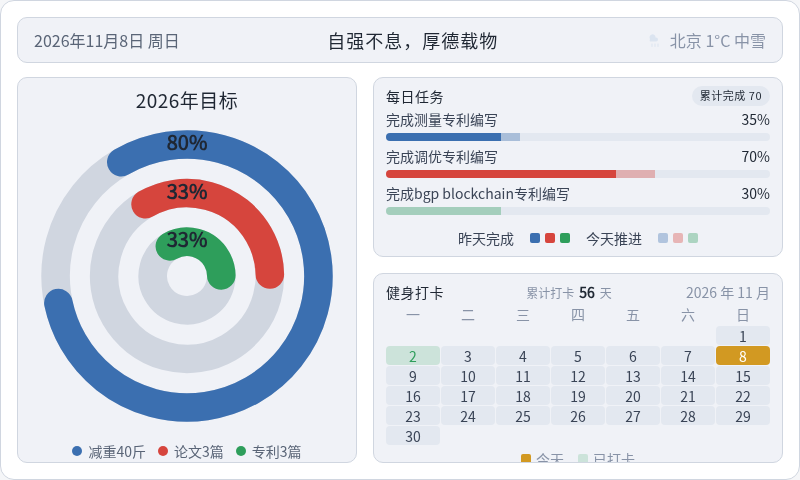
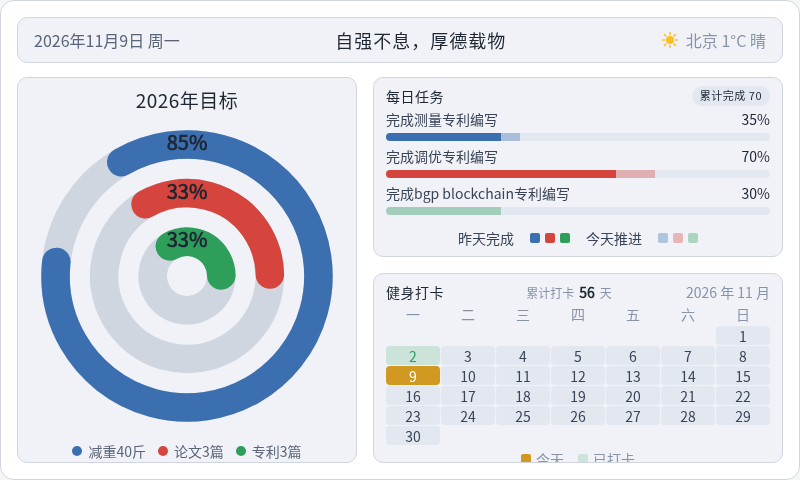
chore: 每日看板刷新 2026-11-09

diff --git a/output/dashboard/dashboard.html b/output/dashboard/dashboard.html
@@ -185,11 +185,11 @@
 <body>
   <div class="dash">
     <div class="topbar">
-      <div class="tb-date" id="tbDate">2026年11月8日 周日</div>
+      <div class="tb-date" id="tbDate">2026年11月9日 周一</div>
       <div class="tb-slogan">自强不息，厚德载物</div>
       <div class="tb-weather">
-        <svg width="16" height="16" viewBox="0 0 16 16" aria-hidden="true"><path d="M4 7 a3 3 0 1 1 5.5 -1.5 h0.5 a2 2 0 1 1 0 4 H4 a2.5 2.5 0 0 1 0 -2.5z" fill="#dbe4f0"/><g stroke="#dbe4f0" stroke-width="1" stroke-linecap="round"><line x1="6" y1="12" x2="6" y2="14.5"/><line x1="9" y1="12" x2="9" y2="14.5"/><line x1="12" y1="12" x2="12" y2="14.5"/></g></svg>
-        <span>北京 1°C 中雪</span>
+        <svg width="16" height="16" viewBox="0 0 16 16" aria-hidden="true"><circle cx="8" cy="8" r="4" fill="#fbbf24"/><g stroke="#fbbf24" stroke-width="1.5" stroke-linecap="round"><line x1="8" y1="0.5" x2="8" y2="2.5"/><line x1="8" y1="13.5" x2="8" y2="15.5"/><line x1="0.5" y1="8" x2="2.5" y2="8"/><line x1="13.5" y1="8" x2="15.5" y2="8"/><line x1="2.5" y1="2.5" x2="3.9" y2="3.9"/><line x1="12.1" y1="12.1" x2="13.5" y2="13.5"/><line x1="13.5" y1="2.5" x2="12.1" y2="3.9"/><line x1="3.9" y1="12.1" x2="2.5" y2="13.5"/></g></svg>
+        <span>北京 1°C 晴</span>
       </div>
     </div>
     <div class="content">
@@ -200,9 +200,9 @@
           <svg viewBox="0 0 210 210" width="300" height="300" role="img" aria-label="三环进度仪表盘">
             <title>2026年目标三环进度</title>
             <g transform="rotate(-120 105 105)">
-              <circle cx="105" cy="105" r="92" fill="none" stroke="#d0d6e0" stroke-width="20"/><circle cx="105" cy="105" r="92" fill="none" stroke="#3b6fb0" stroke-width="20" stroke-linecap="round" stroke-dasharray="462.44 578.05"/><circle cx="105" cy="105" r="58" fill="none" stroke="#d0d6e0" stroke-width="20"/><circle cx="105" cy="105" r="58" fill="none" stroke="#d6453d" stroke-width="20" stroke-linecap="round" stroke-dasharray="120.26 364.42"/><circle cx="105" cy="105" r="24" fill="none" stroke="#d0d6e0" stroke-width="20"/><circle cx="105" cy="105" r="24" fill="none" stroke="#2e9e5b" stroke-width="20" stroke-linecap="round" stroke-dasharray="49.76 150.80"/>
+              <circle cx="105" cy="105" r="92" fill="none" stroke="#d0d6e0" stroke-width="20"/><circle cx="105" cy="105" r="92" fill="none" stroke="#3b6fb0" stroke-width="20" stroke-linecap="round" stroke-dasharray="491.35 578.05"/><circle cx="105" cy="105" r="58" fill="none" stroke="#d0d6e0" stroke-width="20"/><circle cx="105" cy="105" r="58" fill="none" stroke="#d6453d" stroke-width="20" stroke-linecap="round" stroke-dasharray="120.26 364.42"/><circle cx="105" cy="105" r="24" fill="none" stroke="#d0d6e0" stroke-width="20"/><circle cx="105" cy="105" r="24" fill="none" stroke="#2e9e5b" stroke-width="20" stroke-linecap="round" stroke-dasharray="49.76 150.80"/>
             </g>
-            <text x="105" y="13" text-anchor="middle" dominant-baseline="middle" fill="#1f2733" font-size="14" font-weight="700">80%</text><text x="105" y="47" text-anchor="middle" dominant-baseline="middle" fill="#1f2733" font-size="14" font-weight="700">33%</text><text x="105" y="81" text-anchor="middle" dominant-baseline="middle" fill="#1f2733" font-size="14" font-weight="700">33%</text>
+            <text x="105" y="13" text-anchor="middle" dominant-baseline="middle" fill="#1f2733" font-size="14" font-weight="700">85%</text><text x="105" y="47" text-anchor="middle" dominant-baseline="middle" fill="#1f2733" font-size="14" font-weight="700">33%</text><text x="105" y="81" text-anchor="middle" dominant-baseline="middle" fill="#1f2733" font-size="14" font-weight="700">33%</text>
           </svg>
         </div>
         <div class="legend"><div class="legend-row"><span class="dot" style="background:#3b6fb0"></span><span class="lg-name">减重40斤</span></div><div class="legend-row"><span class="dot" style="background:#d6453d"></span><span class="lg-name">论文3篇</span></div><div class="legend-row"><span class="dot" style="background:#2e9e5b"></span><span class="lg-name">专利3篇</span></div></div>
@@ -248,7 +248,7 @@
           <span class="cal-date">2026 年 11 月</span>
         </div>
         <div class="cal-grid wk"><span>一</span><span>二</span><span>三</span><span>四</span><span>五</span><span>六</span><span>日</span></div>
-        <div class="cal-grid"><span class="cell empty"></span><span class="cell empty"></span><span class="cell empty"></span><span class="cell empty"></span><span class="cell empty"></span><span class="cell empty"></span><span class="cell" style="background:#e3e8f0;color:#3a4456">1</span><span class="cell done" style="background:rgba(46,158,91,0.18);color:#2e9e5b">2</span><span class="cell" style="background:#e3e8f0;color:#3a4456">3</span><span class="cell" style="background:#e3e8f0;color:#3a4456">4</span><span class="cell" style="background:#e3e8f0;color:#3a4456">5</span><span class="cell" style="background:#e3e8f0;color:#3a4456">6</span><span class="cell" style="background:#e3e8f0;color:#3a4456">7</span><span class="cell today" style="background:#d29922;color:#ffffff">8</span><span class="cell" style="background:#e3e8f0;color:#3a4456">9</span><span class="cell" style="background:#e3e8f0;color:#3a4456">10</span><span class="cell" style="background:#e3e8f0;color:#3a4456">11</span><span class="cell" style="background:#e3e8f0;color:#3a4456">12</span><span class="cell" style="background:#e3e8f0;color:#3a4456">13</span><span class="cell" style="background:#e3e8f0;color:#3a4456">14</span><span class="cell" style="background:#e3e8f0;color:#3a4456">15</span><span class="cell" style="background:#e3e8f0;color:#3a4456">16</span><span class="cell" style="background:#e3e8f0;color:#3a4456">17</span><span class="cell" style="background:#e3e8f0;color:#3a4456">18</span><span class="cell" style="background:#e3e8f0;color:#3a4456">19</span><span class="cell" style="background:#e3e8f0;color:#3a4456">20</span><span class="cell" style="background:#e3e8f0;color:#3a4456">21</span><span class="cell" style="background:#e3e8f0;color:#3a4456">22</span><span class="cell" style="background:#e3e8f0;color:#3a4456">23</span><span class="cell" style="background:#e3e8f0;color:#3a4456">24</span><span class="cell" style="background:#e3e8f0;color:#3a4456">25</span><span class="cell" style="background:#e3e8f0;color:#3a4456">26</span><span class="cell" style="background:#e3e8f0;color:#3a4456">27</span><span class="cell" style="background:#e3e8f0;color:#3a4456">28</span><span class="cell" style="background:#e3e8f0;color:#3a4456">29</span><span class="cell" style="background:#e3e8f0;color:#3a4456">30</span></div>
+        <div class="cal-grid"><span class="cell empty"></span><span class="cell empty"></span><span class="cell empty"></span><span class="cell empty"></span><span class="cell empty"></span><span class="cell empty"></span><span class="cell" style="background:#e3e8f0;color:#3a4456">1</span><span class="cell done" style="background:rgba(46,158,91,0.18);color:#2e9e5b">2</span><span class="cell" style="background:#e3e8f0;color:#3a4456">3</span><span class="cell" style="background:#e3e8f0;color:#3a4456">4</span><span class="cell" style="background:#e3e8f0;color:#3a4456">5</span><span class="cell" style="background:#e3e8f0;color:#3a4456">6</span><span class="cell" style="background:#e3e8f0;color:#3a4456">7</span><span class="cell" style="background:#e3e8f0;color:#3a4456">8</span><span class="cell today" style="background:#d29922;color:#ffffff">9</span><span class="cell" style="background:#e3e8f0;color:#3a4456">10</span><span class="cell" style="background:#e3e8f0;color:#3a4456">11</span><span class="cell" style="background:#e3e8f0;color:#3a4456">12</span><span class="cell" style="background:#e3e8f0;color:#3a4456">13</span><span class="cell" style="background:#e3e8f0;color:#3a4456">14</span><span class="cell" style="background:#e3e8f0;color:#3a4456">15</span><span class="cell" style="background:#e3e8f0;color:#3a4456">16</span><span class="cell" style="background:#e3e8f0;color:#3a4456">17</span><span class="cell" style="background:#e3e8f0;color:#3a4456">18</span><span class="cell" style="background:#e3e8f0;color:#3a4456">19</span><span class="cell" style="background:#e3e8f0;color:#3a4456">20</span><span class="cell" style="background:#e3e8f0;color:#3a4456">21</span><span class="cell" style="background:#e3e8f0;color:#3a4456">22</span><span class="cell" style="background:#e3e8f0;color:#3a4456">23</span><span class="cell" style="background:#e3e8f0;color:#3a4456">24</span><span class="cell" style="background:#e3e8f0;color:#3a4456">25</span><span class="cell" style="background:#e3e8f0;color:#3a4456">26</span><span class="cell" style="background:#e3e8f0;color:#3a4456">27</span><span class="cell" style="background:#e3e8f0;color:#3a4456">28</span><span class="cell" style="background:#e3e8f0;color:#3a4456">29</span><span class="cell" style="background:#e3e8f0;color:#3a4456">30</span></div>
         <div class="cal-legend">
           <span style="color:#8893a7"><i class="sw" style="background:#d29922"></i>今天</span>
           <span style="color:#8893a7"><i class="sw" style="background:rgba(46,158,91,0.18)"></i>已打卡</span>
